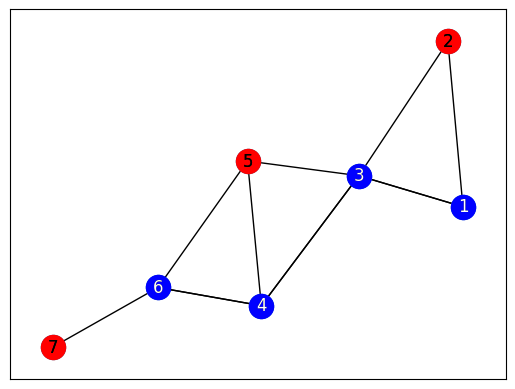
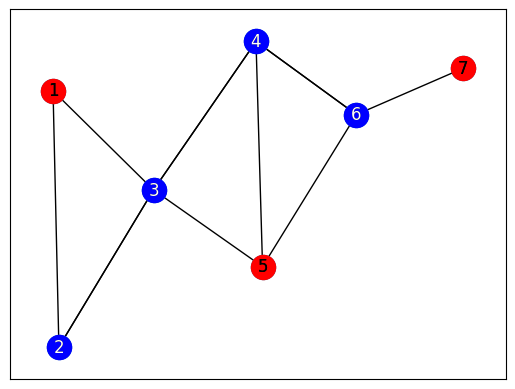
Update problem graph and sampler

diff --git a/change_problem.py b/change_problem.py
@@ -40,6 +40,8 @@ def create_graph():
     G = nx.Graph()
 
     ## TODO:  Update graph to new problem graph
+    edges = [(0, 1), (1, 2), (2, 3), (1, 4), (2, 5), (3, 6), (4, 5), (5, 6), (6, 7)]
+    G.add_edges_from(edges)
 
     return G
 
@@ -56,8 +58,9 @@ def solve_problem(G, sampler):
     '''
 
     ## TODO:  Update dwave-networkx function to new problem function
-
-    return 
+    sampleset = dnx.min_vertex_cover(G, sampler, num_reads=10)
+    
+    return sampleset
 
 ## ------- Main program -------
 if __name__ == "__main__":

diff --git a/change_sampler.py b/change_sampler.py
@@ -14,6 +14,7 @@
 
 # Import networkx for graph tools
 import networkx as nx
+import neal
 
 # Import dwave_networkx for d-wave graph tools/functions
 import dwave_networkx as dnx
@@ -28,8 +29,9 @@ def set_sampler():
     '''Returns a simulated annealing sampler'''
     
     ## TODO:  Import packages and add sampler here
+    sampler = neal.SimulatedAnnealingSampler()
 
-    return 
+    return sampler
 
 def create_graph():
     # Create empty graph
